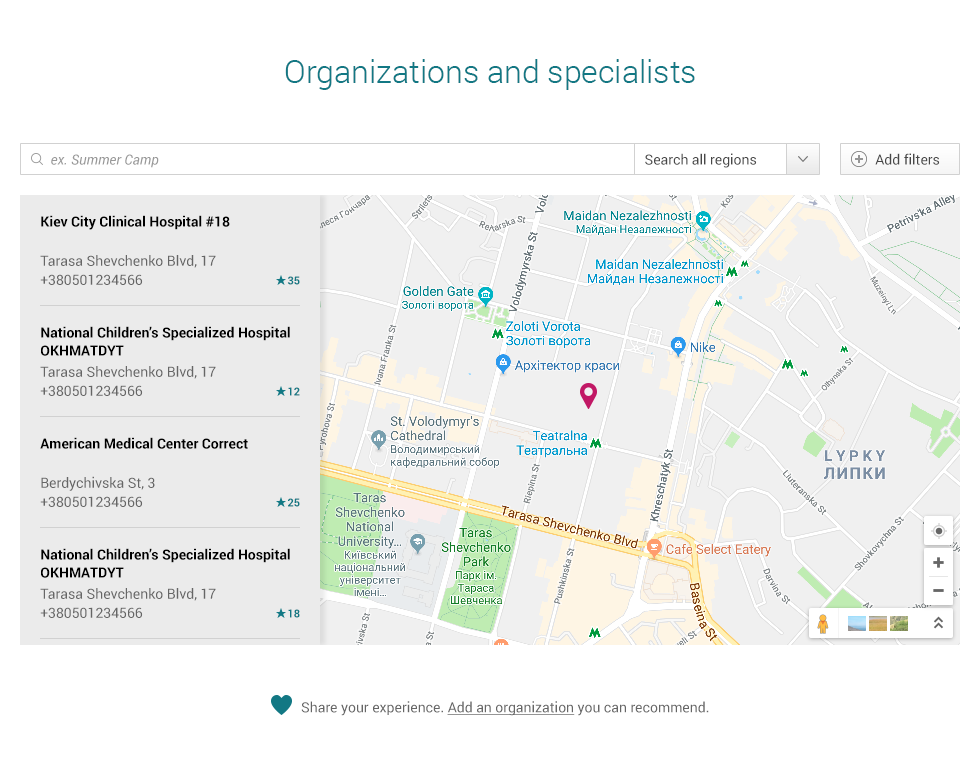
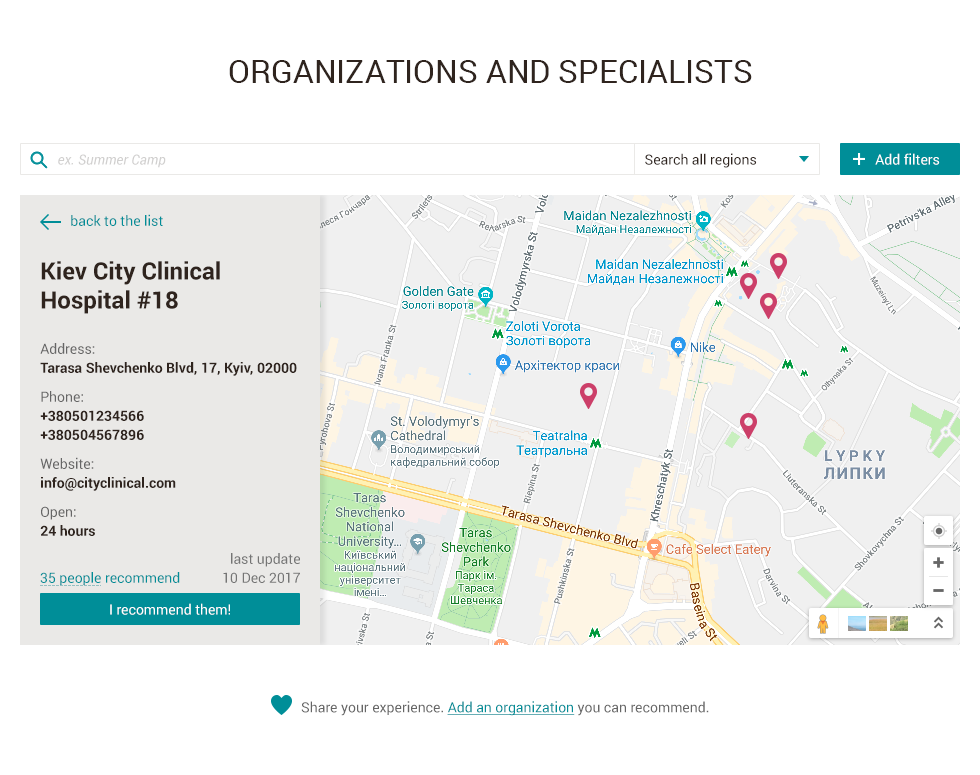
design change

diff --git a/style.css b/style.css
@@ -13,8 +13,8 @@
 }
 
 #block02 {
-	height: 670px;
-	background-color: rgb(250, 250, 250);
+	height: 739px;
+	background-color: rgb(234, 233, 231);
 	background-image: url('images/Special-Portal_06.png');
 }
 
@@ -25,17 +25,17 @@
 
 #block04 {
 	height: 984px;
-	background-color: rgb(250, 250, 250);
+	background-color: rgb(234, 233, 231);
 	background-image: url('images/Special-Portal_08.png');
 }
 
 #block05 {
-	height: 621px;
+	height: 573px;
 	background-image: url('images/Special-Portal_09.png');
 }
 
 #block06 {
-	height: 110px;
-	background-color: rgb(250, 250, 250);
+	height: 131px;
+	background-color: rgb(234, 233, 231);
 	background-image: url('images/Special-Portal_10.png');
 }
